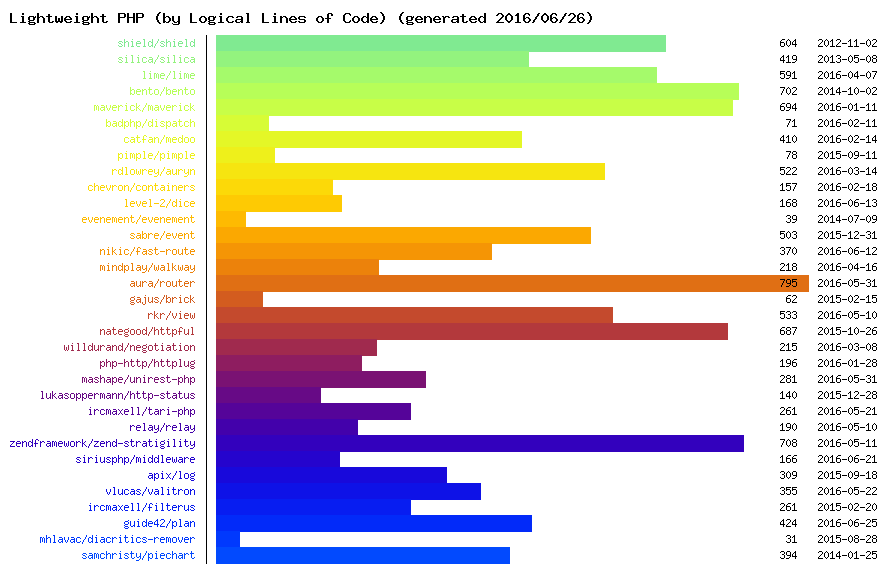
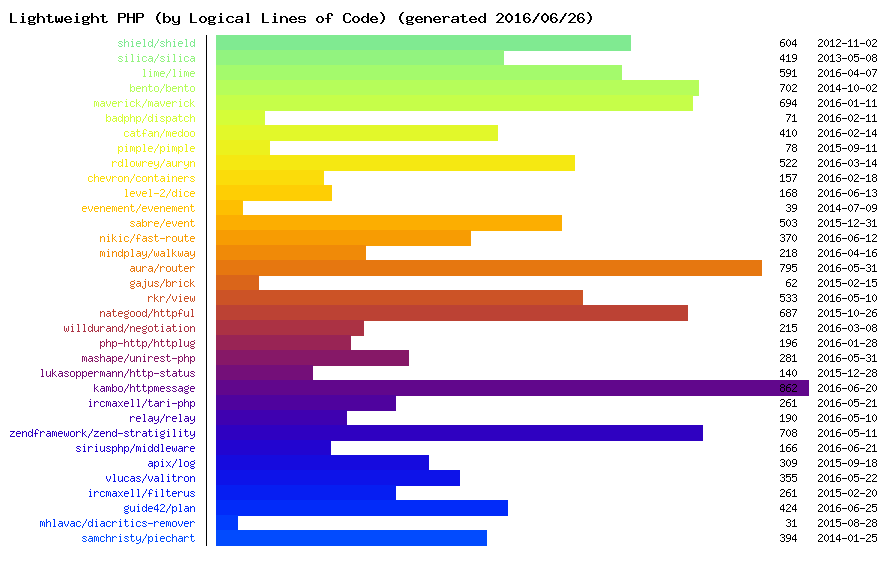
Add HttpMessage

Changed region(s): [[0.2432, 0.0621, 1.0, 0.9931], [0.0, 0.0931, 0.2128, 0.9621]]

diff --git a/README.md b/README.md
@@ -60,6 +60,7 @@ List of lightweight PHP libraries.
 * [HTTPlug](https://github.com/php-http/httplug) - HTTP client abstraction for PHP
 * [Unirest](https://github.com/Mashape/unirest-php) - Simplified, lightweight HTTP client library
 * [Httpstatus](https://github.com/lukasoppermann/http-status) - A minimal package for working with HTTP statuses
+* [HttpMessage](https://github.com/kambo-1st/HttpMessage) - Just another PHP implementation of PSR-7
 
 ## Middleware
 
